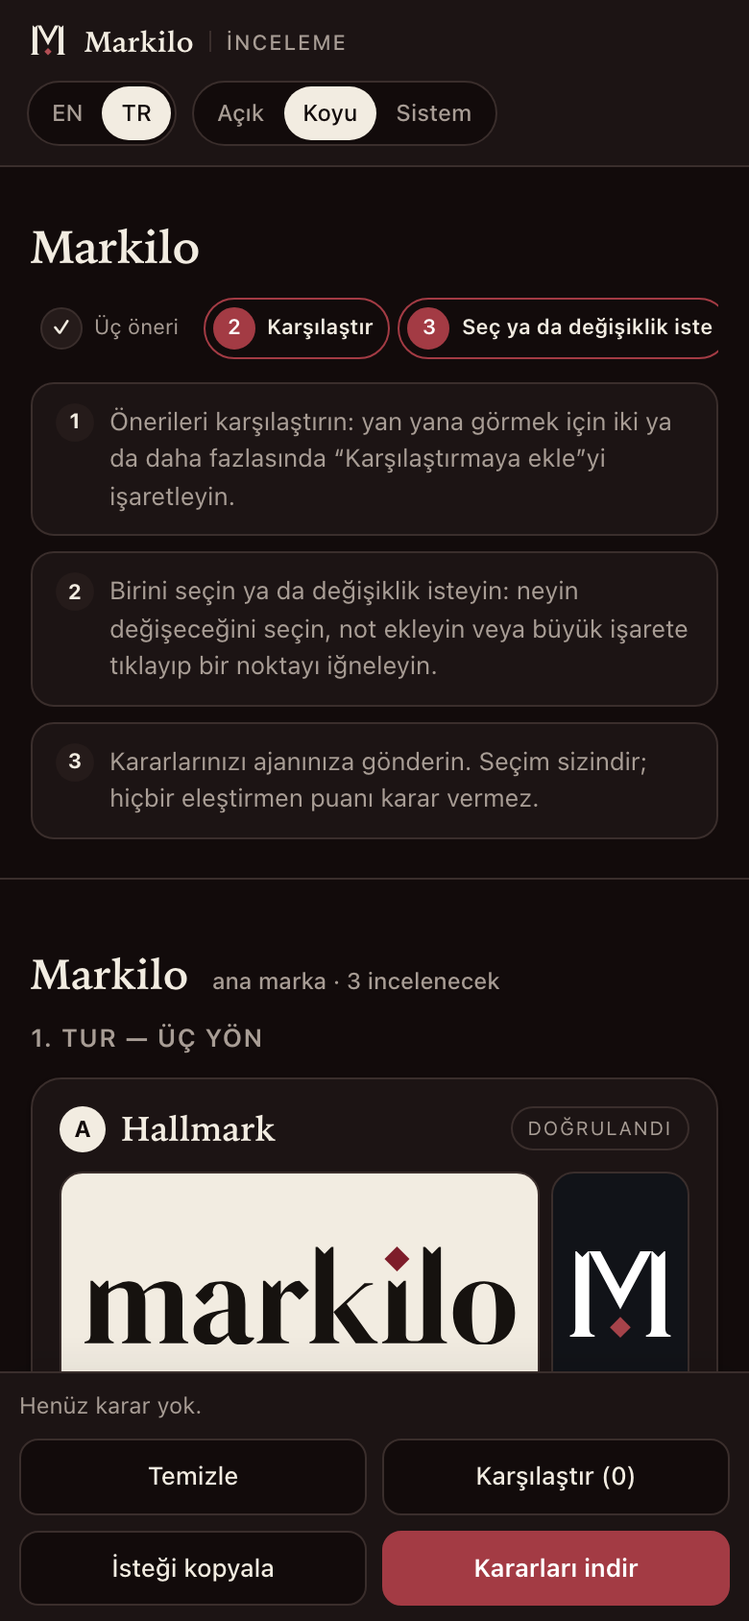
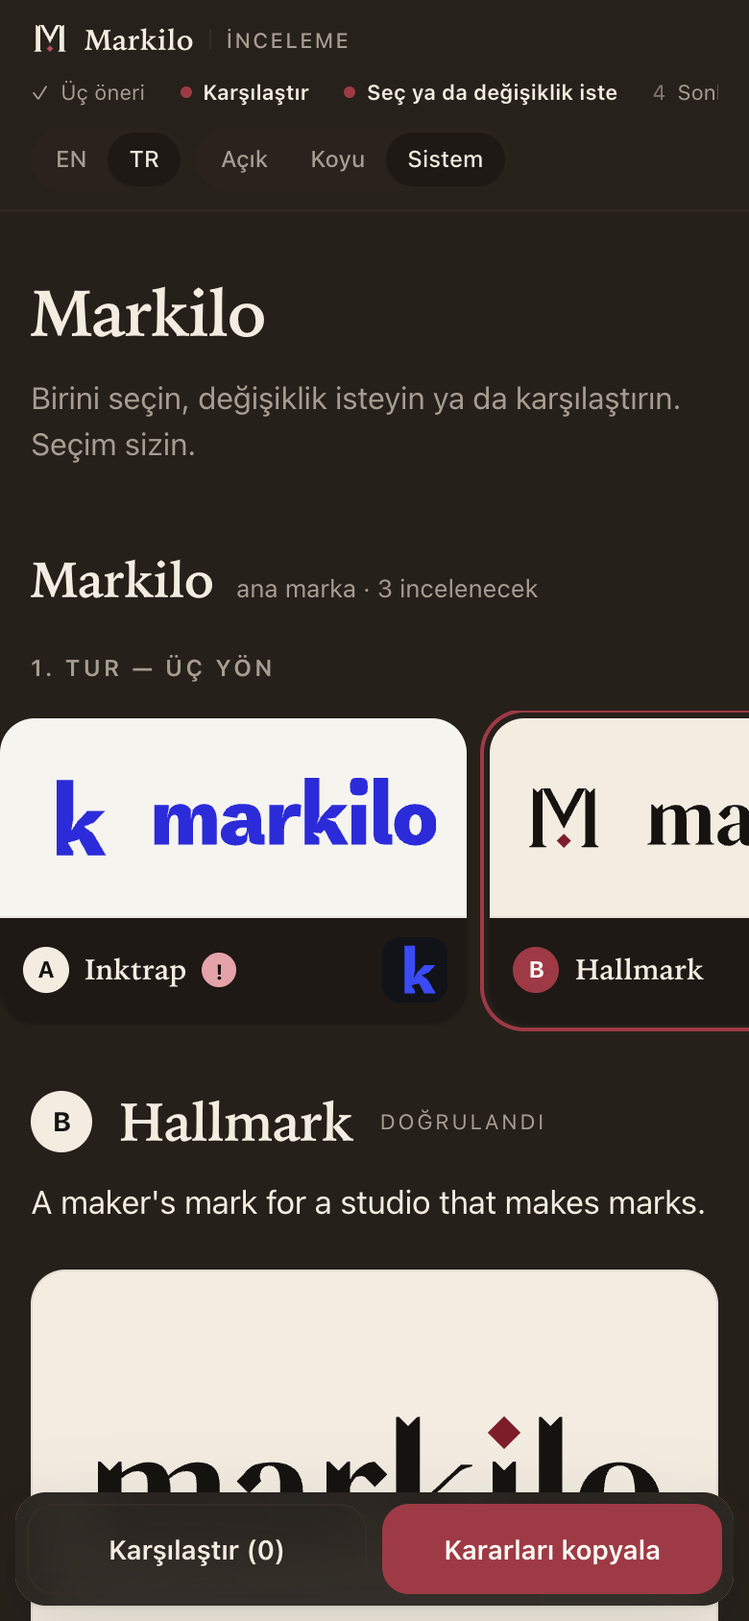
docs(readme): showcase rewrite with the new gallery
New screenshots from Markilo's own round (board, request changes,
compare, details, phone in Turkish and dark, kit preview) and a shorter
README: hero, how it works in three steps, made with Markilo, the kit,
install, cost and limits. Markilo's kit re-exported with the 1.7 pages;
logo files are byte-identical.

diff --git a/branding/brands/markilo/exports/guidelines/index.html b/branding/brands/markilo/exports/guidelines/index.html
@@ -1,8 +1,8 @@
 <!doctype html>
 <html lang="en"><head><meta charset="utf-8"><meta name="viewport" content="width=device-width,initial-scale=1">
-<meta http-equiv="Content-Security-Policy" content="default-src 'none'; script-src 'sha256-qmX8IEYL+Yur/5gXJBwMM0FxtE3NYEm0J3ZTJCE9wpQ='; style-src 'unsafe-inline'; img-src 'self' data:; base-uri 'none'; form-action 'none'">
+<meta http-equiv="Content-Security-Policy" content="default-src 'none'; script-src 'sha256-o6zmhVLJBiXaw1GYFxcKQlTiiojzHJ1zgtfFSQjLI1Q='; style-src 'unsafe-inline'; img-src 'self' data:; base-uri 'none'; form-action 'none'">
 <title>Markilo — brand guidelines</title>
-<script>(()=>{const D={"Language":"Dil","Theme":"Tema","Light":"Açık","Dark":"Koyu","System":"Sistem","Compare":"Karşılaştır","Made with Markilo — works offline; nothing on this page is loaded from the internet.":"Markilo ile yapıldı — çevrimdışı çalışır; bu sayfada internetten hiçbir şey yüklenmez.","Brand guidelines":"Marka kılavuzu","Clear":"Temizle","change":"değiştir","family":"ailesi","verified":"doğrulandı","approved":"onaylandı","locked":"kilitli","low":"düşük","Originality":"Özgünlük","Keep":"Tut","Primary":"Birincil","Symbol":"Simge","originality":"özgünlük","Primary logo":"Birincil logo","On dark backgrounds":"Koyu zeminlerde","color":"renkli","white":"beyaz","primary":"birincil","accent":"vurgu","ink":"mürekkep","dark":"koyu","Secondary":"İkincil","Ink":"Mürekkep","Paper":"Kâğıt","{0}:1 on white · {1}:1 on dark":"beyazda {0}:1 · koyuda {1}:1","concept":"konsept","generated {0}":"{0} tarihinde üretildi","Logo":"Logo","Secondary logo":"İkincil logo","Clear space & minimum size":"Boşluk alanı ve en küçük boyut","Keep clear space equal to the wordmark cap height on every side. Minimum: symbol 16 px / 5 mm, horizontal logo 96 px / 25 mm.":"Her yanda logotipin büyük harf yüksekliği kadar boşluk bırakın. En küçük boyut: simge 16 px / 5 mm, yatay logo 96 px / 25 mm.","Color":"Renk","Typography":"Tipografi","Originality check":"Özgünlük denetimi","Approved with originality verdict {0} (confidence {1}), with the remaining risk explicitly accepted.":"{0} özgünlük kararıyla onaylandı (güven: {1}); kalan risk açıkça kabul edildi.","Compared against: {0}.":"Karşılaştırılanlar: {0}.","No trademark registry search was done (WIPO Global Brand Database, TMview, national registers). Search them, or have a trademark attorney do it, before registering or launching widely.":"Marka tescil araması yapılmadı (WIPO Global Brand Database, TMview, ulusal siciller). Tescil ettirmeden ya da geniş çapta yayına almadan önce bunları siz tarayın veya bir marka vekiline taratın.","Do not":"Yapmayın","Do not stretch, squash, skew or rotate the logo.":"Logoyu germeyin, ezmeyin, eğmeyin veya döndürmeyin.","Do not recolor outside the approved palette or apply gradients, shadows, glows or outlines.":"Onaylı paletin dışında renk vermeyin; degrade, gölge, parlama veya kontur uygulamayın.","Do not rebuild the wordmark in another typeface or change its letter spacing.":"Logotipi başka bir yazı karakteriyle yeniden kurmayın veya harf aralığını değiştirmeyin.","Do not rearrange the symbol and wordmark or change their size relationship.":"Simge ile logotipin yerini veya aralarındaki boyut ilişkisini değiştirmeyin.","Do not place the logo on busy images or backgrounds with less than 3:1 contrast.":"Logoyu karmaşık görsellerin veya kontrastı 3:1’den düşük zeminlerin üzerine koymayın.","Do not crop the symbol or place it inside another shape unless it is an approved appmark.":"Onaylı bir uygulama simgesi değilse simgeyi kırpmayın veya başka bir şeklin içine yerleştirmeyin.","Originality not verified: no competitor marks were compared. Run research (with network access) before relying on this mark.":"Özgünlük doğrulanmadı: hiçbir rakip işaretle karşılaştırma yapılmadı. Bu işarete güvenmeden önce araştırmayı (ağ erişimiyle) çalıştırın."},K='markilo-ui',R=document.documentElement;let p={};try{p=JSON.parse(localStorage.getItem(K)||'{}')||{}}catch(e){}
+<script>(()=>{const D={"Language":"Dil","Theme":"Tema","Light":"Açık","Dark":"Koyu","System":"Sistem","Compare":"Karşılaştır","Made with Markilo — works offline; nothing on this page is loaded from the internet.":"Markilo ile yapıldı — çevrimdışı çalışır; bu sayfada internetten hiçbir şey yüklenmez.","Brand guidelines":"Marka kılavuzu","Clear":"Temizle","change":"değiştir","drop":"ele","family":"ailesi","verified":"doğrulandı","approved":"onaylandı","locked":"kilitli","low":"düşük","Originality":"Özgünlük","Keep":"Tut","Primary":"Birincil","Symbol":"Simge","originality":"özgünlük","Primary logo":"Birincil logo","On dark backgrounds":"Koyu zeminlerde","color":"renkli","white":"beyaz","primary":"birincil","accent":"vurgu","ink":"mürekkep","dark":"koyu","Secondary":"İkincil","Ink":"Mürekkep","Paper":"Kâğıt","{0}:1 on white · {1}:1 on dark":"beyazda {0}:1 · koyuda {1}:1","concept":"konsept","generated {0}":"{0} tarihinde üretildi","Logo":"Logo","Secondary logo":"İkincil logo","Clear space & minimum size":"Boşluk alanı ve en küçük boyut","Keep clear space equal to the wordmark cap height on every side. Minimum: symbol 16 px / 5 mm, horizontal logo 96 px / 25 mm.":"Her yanda logotipin büyük harf yüksekliği kadar boşluk bırakın. En küçük boyut: simge 16 px / 5 mm, yatay logo 96 px / 25 mm.","Color":"Renk","Typography":"Tipografi","Originality check":"Özgünlük denetimi","Approved with originality verdict {0} (confidence {1}), with the remaining risk explicitly accepted.":"{0} özgünlük kararıyla onaylandı (güven: {1}); kalan risk açıkça kabul edildi.","Compared against: {0}.":"Karşılaştırılanlar: {0}.","No trademark registry search was done (WIPO Global Brand Database, TMview, national registers). Search them, or have a trademark attorney do it, before registering or launching widely.":"Marka tescil araması yapılmadı (WIPO Global Brand Database, TMview, ulusal siciller). Tescil ettirmeden ya da geniş çapta yayına almadan önce bunları siz tarayın veya bir marka vekiline taratın.","Do not":"Yapmayın","Do not stretch, squash, skew or rotate the logo.":"Logoyu germeyin, ezmeyin, eğmeyin veya döndürmeyin.","Do not recolor outside the approved palette or apply gradients, shadows, glows or outlines.":"Onaylı paletin dışında renk vermeyin; degrade, gölge, parlama veya kontur uygulamayın.","Do not rebuild the wordmark in another typeface or change its letter spacing.":"Logotipi başka bir yazı karakteriyle yeniden kurmayın veya harf aralığını değiştirmeyin.","Do not rearrange the symbol and wordmark or change their size relationship.":"Simge ile logotipin yerini veya aralarındaki boyut ilişkisini değiştirmeyin.","Do not place the logo on busy images or backgrounds with less than 3:1 contrast.":"Logoyu karmaşık görsellerin veya kontrastı 3:1’den düşük zeminlerin üzerine koymayın.","Do not crop the symbol or place it inside another shape unless it is an approved appmark.":"Onaylı bir uygulama simgesi değilse simgeyi kırpmayın veya başka bir şeklin içine yerleştirmeyin.","Originality not verified: no competitor marks were compared. Run research (with network access) before relying on this mark.":"Özgünlük doğrulanmadı: hiçbir rakip işaretle karşılaştırma yapılmadı. Bu işarete güvenmeden önce araştırmayı (ağ erişimiyle) çalıştırın."},K='markilo-ui',R=document.documentElement;let p={};try{p=JSON.parse(localStorage.getItem(K)||'{}')||{}}catch(e){}
 const nav=String(navigator.language||'').toLowerCase().startsWith('tr')?'tr':'en';
 const S={lang:p.lang==='tr'||p.lang==='en'?p.lang:nav,theme:p.theme==='light'||p.theme==='dark'?p.theme:'system'};
 const fill=(s,v)=>s.replace(/\{(\d)\}/g,(m,i)=>v[i]!==undefined?v[i]:m);
@@ -21,25 +21,26 @@ const ready=()=>{document.querySelectorAll('[data-mk-lang]').forEach(b=>b.onclic
 document.querySelectorAll('[data-mk-theme]').forEach(b=>b.onclick=()=>{S.theme=b.dataset.mkTheme;store();theme();apply()});apply()};
 if(document.readyState==='loading')document.addEventListener('DOMContentLoaded',ready);else ready()})();</script>
 <style>
-:root{--bg:#f2ece1;--card:#fbf8f2;--sunk:#ebe3d6;--ink:#16120f;--muted:#6b625b;--line:#ddd2c4;--accent:#7e1d2a;--accent-ink:#fff;--link:#7e1d2a;--good:#2e6b3d;--warn:#8a5a00;--bad:#b42318;--shadow:0 1px 2px rgba(22,18,15,.06),0 4px 16px rgba(22,18,15,.05);--serif:"Iowan Old Style","Palatino Linotype",Palatino,"Book Antiqua",Georgia,serif;--sans:system-ui,-apple-system,"Segoe UI",Roboto,"Helvetica Neue",sans-serif;color-scheme:light}
-@media (prefers-color-scheme:dark){:root:not([data-theme=light]){--bg:#120b0b;--card:#1c1414;--sunk:#251b1a;--ink:#f2ece1;--muted:#a89d95;--line:#3a2e2c;--accent:#a33b44;--accent-ink:#fff;--link:#e39a9e;--good:#7cc493;--warn:#e0b25c;--bad:#ff8a7a;--shadow:0 1px 2px rgba(0,0,0,.3);color-scheme:dark}}
-:root[data-theme=dark]{--bg:#120b0b;--card:#1c1414;--sunk:#251b1a;--ink:#f2ece1;--muted:#a89d95;--line:#3a2e2c;--accent:#a33b44;--accent-ink:#fff;--link:#e39a9e;--good:#7cc493;--warn:#e0b25c;--bad:#ff8a7a;--shadow:0 1px 2px rgba(0,0,0,.3);color-scheme:dark}
+:root{--bg:#f2ece1;--card:#fbf8f2;--sunk:#e9e2d6;--ink:#16120f;--muted:#6b625b;--line:#ddd5c9;--accent:#7e1d2a;--accent-hover:#651722;--accent-ink:#fbf8f2;--link:#7e1d2a;--problem:#7e1d2a;--shadow:0 1px 2px rgba(22,18,15,.05),0 8px 24px rgba(22,18,15,.06);--serif:"Iowan Old Style","Palatino Linotype",Palatino,"Book Antiqua",Georgia,serif;--sans:system-ui,-apple-system,"Segoe UI",Roboto,"Helvetica Neue",sans-serif;color-scheme:light}
+@media (prefers-color-scheme:dark){:root:not([data-theme=light]){--bg:#16120f;--card:#1e1915;--sunk:#29221d;--ink:#f2ece1;--muted:#a69d92;--line:#352d27;--accent:#9e3a45;--accent-hover:#b34f55;--accent-ink:#fbf8f2;--link:#e3a3a8;--problem:#e3a3a8;--shadow:0 1px 2px rgba(0,0,0,.3);color-scheme:dark}}
+:root[data-theme=dark]{--bg:#16120f;--card:#1e1915;--sunk:#29221d;--ink:#f2ece1;--muted:#a69d92;--line:#352d27;--accent:#9e3a45;--accent-hover:#b34f55;--accent-ink:#fbf8f2;--link:#e3a3a8;--problem:#e3a3a8;--shadow:0 1px 2px rgba(0,0,0,.3);color-scheme:dark}
 *{box-sizing:border-box}body{margin:0;background:var(--bg);color:var(--ink);font:15px/1.5 var(--sans);-webkit-font-smoothing:antialiased}
-a{color:var(--link)}
-.mk-top{display:flex;flex-wrap:wrap;gap:10px 16px;align-items:center;justify-content:space-between;padding:12px 20px;border-bottom:1px solid var(--line);background:var(--card)}
-.mk-brand{display:flex;align-items:center;gap:8px;color:var(--ink);text-decoration:none;font:600 15px/1 var(--serif);letter-spacing:.01em}.mk-brand svg{width:22px;height:22px}.mk-brand .p{fill:#7e1d2a}
+a{color:var(--link);text-underline-offset:2px}a:hover{color:var(--accent-hover)}
+:focus-visible{outline:2px solid var(--accent);outline-offset:2px}
+.mk-top{position:relative;z-index:20;display:flex;flex-wrap:wrap;gap:10px 24px;align-items:center;justify-content:space-between;padding:12px 24px;background:color-mix(in srgb,var(--bg) 86%,transparent);-webkit-backdrop-filter:saturate(1.4) blur(14px);backdrop-filter:saturate(1.4) blur(14px);border-bottom:1px solid color-mix(in srgb,var(--line) 70%,transparent)}
+.mk-brand{display:flex;align-items:center;gap:8px;color:var(--ink);text-decoration:none;font:600 15px/1 var(--serif);letter-spacing:.01em}.mk-brand svg{width:20px;height:20px}.mk-brand .p{fill:#7e1d2a}
 :root[data-theme=dark] .mk-brand .p{fill:#b34f55}@media (prefers-color-scheme:dark){:root:not([data-theme=light]) .mk-brand .p{fill:#b34f55}}
-.mk-brand small{font:500 11px/1 var(--sans);color:var(--muted);text-transform:uppercase;letter-spacing:.08em;border-left:1px solid var(--line);padding-left:8px}
-.mk-prefs{display:flex;gap:8px;visibility:hidden}.mk-js .mk-prefs{visibility:visible}
-.mk-seg{display:inline-flex;border:1px solid var(--line);border-radius:99px;padding:2px;background:var(--bg)}
-.mk-seg button{font:500 12px/1 var(--sans);color:var(--muted);background:transparent;border:0;border-radius:99px;padding:6px 10px;cursor:pointer;min-height:28px}
-.mk-seg button[aria-pressed=true]{background:var(--ink);color:var(--bg)}.mk-seg button:focus-visible{outline:2px solid var(--accent);outline-offset:1px}
-.mk-steps{display:flex;flex-wrap:wrap;gap:4px;list-style:none;margin:0;padding:0;counter-reset:s}
-.mk-steps li{counter-increment:s;display:flex;align-items:center;gap:6px;font-size:12px;color:var(--muted);padding:4px 10px 4px 4px;border-radius:99px;border:1px solid transparent}
-.mk-steps li:before{content:counter(s);display:grid;place-items:center;width:20px;height:20px;border-radius:50%;border:1px solid var(--line);font-size:11px;font-weight:600}
-.mk-steps li.done:before{content:"✓";background:var(--sunk);color:var(--ink)}.mk-steps li.now{color:var(--ink);border-color:var(--accent);font-weight:600}.mk-steps li.now:before{background:var(--accent);border-color:var(--accent);color:var(--accent-ink)}
-.mk-foot{max-width:1280px;margin:0 auto;padding:24px 16px 32px;color:var(--muted);font-size:12px;display:flex;gap:6px;align-items:center}.mk-foot svg{width:14px;height:14px}
-@media (max-width:640px){.mk-top{padding:10px 14px}.mk-steps{flex-wrap:nowrap;overflow-x:auto;scrollbar-width:none}.mk-steps li{font-size:11px;padding-right:8px;white-space:nowrap;flex:none}}
+.mk-brand small{font:500 11px/1 var(--sans);color:var(--muted);text-transform:uppercase;letter-spacing:.1em;border-left:1px solid var(--line);padding-left:8px}
+.mk-prefs{display:flex;gap:6px;visibility:hidden}.mk-js .mk-prefs{visibility:visible}
+.mk-seg{display:inline-flex;border-radius:99px;padding:2px;background:var(--sunk)}
+.mk-seg button{font:500 12px/1 var(--sans);color:var(--muted);background:transparent;border:0;border-radius:99px;padding:6px 11px;cursor:pointer;min-height:28px;transition:color .15s,background .15s}
+.mk-seg button:hover{color:var(--ink)}.mk-seg button[aria-pressed=true]{background:var(--card);color:var(--ink);box-shadow:0 1px 2px rgba(22,18,15,.12)}
+.mk-steps{display:flex;flex-wrap:wrap;gap:2px 18px;list-style:none;margin:0;padding:0;counter-reset:s}
+.mk-steps li{counter-increment:s;display:flex;align-items:center;gap:6px;font-size:12px;color:var(--muted)}
+.mk-steps li:before{content:counter(s);font-variant-numeric:tabular-nums;font-size:11px;opacity:.7}
+.mk-steps li.done:before{content:"✓";opacity:1}.mk-steps li.now{color:var(--ink);font-weight:600}.mk-steps li.now:before{content:"";width:6px;height:6px;border-radius:50%;background:var(--accent);opacity:1}
+.mk-foot{max-width:1200px;margin:0 auto;padding:40px 24px 48px;color:var(--muted);font-size:12px;display:flex;gap:6px;align-items:center}.mk-foot svg{width:14px;height:14px}
+@media (max-width:640px){.mk-top{padding:10px 16px}.mk-steps{flex-wrap:nowrap;overflow-x:auto;scrollbar-width:none}.mk-steps li{font-size:11px;white-space:nowrap;flex:none}}
 @media print{.mk-prefs{display:none}}
 body{font-size:16px;line-height:1.6}main{max-width:1040px;margin:0 auto;padding:40px 20px 24px}
 h1{font:600 46px/1.05 var(--serif);margin:0 0 6px;letter-spacing:-.015em}.meta{color:var(--muted);margin:0}
@@ -47,8 +48,8 @@ h2{font:600 24px/1.2 var(--serif);margin:52px 0 16px;padding-top:22px;border-top
 .grid{display:grid;grid-template-columns:repeat(auto-fill,minmax(300px,1fr));gap:16px}figure{margin:0}figure.sq{max-width:220px}figure svg{display:block;width:100%;height:auto;border-radius:14px;border:1px solid var(--line)}figcaption{font-size:12px;color:var(--muted);margin-top:6px}
 .sw{display:grid;gap:2px;background:var(--card);border:1px solid var(--line);border-radius:14px;padding:8px;box-shadow:var(--shadow)}.chip{height:76px;border-radius:10px;border:1px solid var(--line)}code{font-size:13px}small{color:var(--muted)}
 .swatches{display:grid;grid-template-columns:repeat(auto-fill,minmax(160px,1fr));gap:12px;margin-bottom:16px}.scale{display:flex;align-items:center;gap:4px;margin:6px 0}.scale span{width:90px;font-size:13px;color:var(--muted)}.scale i{flex:1;height:32px;border-radius:4px}
-ul.dont{list-style:none;padding:0;display:grid;gap:8px}ul.dont li{padding:10px 14px 10px 40px;position:relative;background:var(--card);border:1px solid var(--line);border-radius:12px}ul.dont li:before{content:"✕";position:absolute;left:15px;color:var(--bad);font-weight:700}
-.locked{padding:12px 16px;border-radius:12px;background:#fff6db;color:#4a3800;border:1px solid #f0d27a}.band.warn{padding:12px 16px;border-radius:12px;border:1px solid var(--warn);color:var(--warn);font-weight:600}.note{background:var(--card);border:1px solid var(--line);border-left:3px solid var(--accent);border-radius:10px;padding:10px 14px}
+ul.dont{list-style:none;padding:0;display:grid;gap:8px}ul.dont li{padding:10px 14px 10px 40px;position:relative;background:var(--card);border:1px solid var(--line);border-radius:12px}ul.dont li:before{content:"✕";position:absolute;left:15px;color:var(--problem);font-weight:700}
+.locked{padding:12px 16px;border-radius:12px;background:var(--sunk);color:var(--ink)}.band.warn{padding:12px 16px 12px 40px;position:relative;border-radius:12px;background:var(--card);border:1px solid var(--problem);color:var(--problem);font-weight:600}.band.warn:before{content:"!";position:absolute;left:14px;top:11px;width:18px;height:18px;border-radius:50%;background:var(--problem);color:var(--bg);display:grid;place-items:center;font-size:12px;font-weight:700}.note{background:var(--card);border:1px solid var(--line);border-left:3px solid var(--accent);border-radius:10px;padding:10px 14px}
 @media (max-width:600px){h1{font-size:34px}main{padding-top:28px}}
 </style></head><body>
 <header class="mk-top"><span class="mk-brand"><svg viewBox="0 0 1024 1024" aria-hidden="true"><path fill="currentColor" fill-rule="evenodd" d="M253.08 151.99h-9.28l-48.49 48.48-48.48-48.48h-9.28v629.24c0 20.94-1.02 49.09-21.15 61.38-7.36 4.5-15.85 7.04-24.24 8.77v12.38h206.31v-12.38c-8.39-1.73-16.88-4.27-24.24-8.77-20.13-12.29-21.15-40.44-21.15-61.38zM512 463 345.92 151.99h-92.84L512 636.82l258.92-484.83v629.24c0 20.94-1.02 49.09-21.15 61.38-7.36 4.5-15.85 7.04-24.24 8.77v12.38h206.31v-12.38c-8.39-1.73-16.88-4.27-24.24-8.77-20.13-12.29-21.15-40.44-21.15-61.38V151.99h-9.28l-48.48 48.48-48.49-48.48H678.08z"/><path class="p" fill-rule="evenodd" d="m512 698.71 86.65 86.65L512 872.01l-86.65-86.65z"/></svg>Markilo<small><span data-i18n>Brand guidelines</span></small></span><div class="mk-prefs">
@@ -56,7 +57,7 @@ ul.dont{list-style:none;padding:0;display:grid;gap:8px}ul.dont li{padding:10px 1
 <div class="mk-seg" role="group" aria-label="Theme" data-i18n-aria-label="Theme"><button type="button" data-mk-theme="light" aria-pressed="false"><span data-i18n>Light</span></button><button type="button" data-mk-theme="dark" aria-pressed="false"><span data-i18n>Dark</span></button><button type="button" data-mk-theme="system" aria-pressed="true"><span data-i18n>System</span></button></div>
 </div></header>
 <main>
-<h1>Markilo</h1><p class="meta"><span data-i18n>Brand guidelines</span> · <span data-i18n>concept</span> <code>hallmark</code> · <span data-i18n="generated {0}" data-i18n-v="[&quot;2026-11-13&quot;]">generated 2026-11-13</span></p>
+<h1>Markilo</h1><p class="meta"><span data-i18n>Brand guidelines</span> · <span data-i18n>concept</span> <code>hallmark</code> · <span data-i18n="generated {0}" data-i18n-v="[&quot;2026-11-16&quot;]">generated 2026-11-16</span></p>
 
 <h2><span class="n">01</span><span data-i18n>Logo</span></h2><div class="grid"><figure><svg xmlns="http://www.w3.org/2000/svg" width="360" height="160" viewBox="0 0 360 160"><rect width="360" height="160" fill="#F2ECE1"/><g transform="matrix(0.784 0 0 0.784 43.2 110.1822)">
   <g fill="#16120f">

diff --git a/branding/brands/markilo/exports/index.html b/branding/brands/markilo/exports/index.html
@@ -1,8 +1,8 @@
 <!doctype html>
 <html lang="en"><head><meta charset="utf-8"><meta name="viewport" content="width=device-width,initial-scale=1">
-<meta http-equiv="Content-Security-Policy" content="default-src 'none'; script-src 'sha256-tqKmaiRKrrdgnMnkrBnGdCAiUbjywmUGd3SsUivPfwU='; style-src 'unsafe-inline'; img-src 'self' file: data:; base-uri 'none'; form-action 'none'">
+<meta http-equiv="Content-Security-Policy" content="default-src 'none'; script-src 'sha256-jZJCPn46VKzMvpFY/ay6Pyzwg7Ct0pKWcyOuTm8yooQ='; style-src 'unsafe-inline'; img-src 'self' file: data:; base-uri 'none'; form-action 'none'">
 <title>Markilo — brand kit</title>
-<script>(()=>{const D={"Language":"Dil","Theme":"Tema","Light":"Açık","Dark":"Koyu","System":"Sistem","Workflow":"İş akışı","Three proposals":"Üç öneri","Compare":"Karşılaştır","Select or request changes":"Seç ya da değişiklik iste","Finalize":"Sonlandır","Export":"Dışa aktar","Made with Markilo — works offline; nothing on this page is loaded from the internet.":"Markilo ile yapıldı — çevrimdışı çalışır; bu sayfada internetten hiçbir şey yüklenmez.","Asset kit":"Varlık kiti","change":"değiştir","low":"düşük","Select":"Seç","Primary":"Birincil","Symbol":"Simge","Primary logo":"Birincil logo","On dark backgrounds":"Koyu zeminlerde","{0} files · every file below is shown on the background it is made for":"{0} dosya · aşağıdaki her dosya, yapıldığı zeminde gösterilir","{0} files":"{0} dosya","Start here":"Buradan başlayın","Your logo (the wordmark)":"Logonuz (logotip)","Your logo":"Logonuz","Logo on dark backgrounds":"Koyu zeminde logo","The symbol alone":"Yalnız simge","App icon, avatar":"Uygulama simgesi, avatar","Website icons (paste into \u003chead>)":"Web sitesi simgeleri (\u003chead> içine yapıştırın)","Link preview image":"Bağlantı önizleme görseli","Colors as CSS variables":"CSS değişkenleri olarak renkler","How to use it":"Nasıl kullanılır","color":"renkli","reversed":"ters","black":"siyah","white":"beyaz","primary":"birincil","secondary":"ikincil","accent":"vurgu","ink":"mürekkep","paper":"kâğıt","dark":"koyu","Primary — the default":"Birincil — varsayılan","Secondary — stacked, for square-ish spaces":"İkincil — üst üste, kareye yakın alanlar için","Compact — navigation bars and tight spaces":"Kompakt — gezinme çubukları ve dar alanlar","Symbol — the mark alone":"Simge — işaret tek başına","every logo in color, reversed, black and white, as SVG and transparent PNG":"her logo renkli, ters, siyah ve beyaz olarak; SVG ve saydam PNG","favicons, home-screen icons, the web manifest and head-snippet.html to paste into your \u003chead>":"favicon’lar, ana ekran simgeleri, web manifest ve \u003chead> içine yapıştırılacak head-snippet.html","link previews, profile covers and the avatar":"bağlantı önizlemeleri, profil kapakları ve avatar","colors and type as JSON, CSS variables and a Tailwind theme":"JSON, CSS değişkenleri ve bir Tailwind teması olarak renkler ve yazı","how to use the identity (HTML and Markdown)":"kimliğin nasıl kullanılacağı (HTML ve Markdown)","Secondary":"İkincil","Logo":"Logo","Color":"Renk"},K='markilo-ui',R=document.documentElement;let p={};try{p=JSON.parse(localStorage.getItem(K)||'{}')||{}}catch(e){}
+<script>(()=>{const D={"Language":"Dil","Theme":"Tema","Light":"Açık","Dark":"Koyu","System":"Sistem","Workflow":"İş akışı","Three proposals":"Üç öneri","Compare":"Karşılaştır","Select or request changes":"Seç ya da değişiklik iste","Finalize":"Sonlandır","Export":"Dışa aktar","Made with Markilo — works offline; nothing on this page is loaded from the internet.":"Markilo ile yapıldı — çevrimdışı çalışır; bu sayfada internetten hiçbir şey yüklenmez.","Asset kit":"Varlık kiti","change":"değiştir","drop":"ele","low":"düşük","Select":"Seç","Primary":"Birincil","Symbol":"Simge","Primary logo":"Birincil logo","On dark backgrounds":"Koyu zeminlerde","{0} files · every file below is shown on the background it is made for":"{0} dosya · aşağıdaki her dosya, yapıldığı zeminde gösterilir","{0} files":"{0} dosya","Start here":"Buradan başlayın","Your logo (the wordmark)":"Logonuz (logotip)","Your logo":"Logonuz","Logo on dark backgrounds":"Koyu zeminde logo","The symbol alone":"Yalnız simge","App icon, avatar":"Uygulama simgesi, avatar","Website icons (paste into \u003chead>)":"Web sitesi simgeleri (\u003chead> içine yapıştırın)","Link preview image":"Bağlantı önizleme görseli","Colors as CSS variables":"CSS değişkenleri olarak renkler","How to use it":"Nasıl kullanılır","color":"renkli","reversed":"ters","black":"siyah","white":"beyaz","primary":"birincil","secondary":"ikincil","accent":"vurgu","ink":"mürekkep","paper":"kâğıt","dark":"koyu","Primary — the default":"Birincil — varsayılan","Secondary — stacked, for square-ish spaces":"İkincil — üst üste, kareye yakın alanlar için","Compact — navigation bars and tight spaces":"Kompakt — gezinme çubukları ve dar alanlar","Symbol — the mark alone":"Simge — işaret tek başına","every logo in color, reversed, black and white, as SVG and transparent PNG":"her logo renkli, ters, siyah ve beyaz olarak; SVG ve saydam PNG","favicons, home-screen icons, the web manifest and head-snippet.html to paste into your \u003chead>":"favicon’lar, ana ekran simgeleri, web manifest ve \u003chead> içine yapıştırılacak head-snippet.html","link previews, profile covers and the avatar":"bağlantı önizlemeleri, profil kapakları ve avatar","colors and type as JSON, CSS variables and a Tailwind theme":"JSON, CSS değişkenleri ve bir Tailwind teması olarak renkler ve yazı","how to use the identity (HTML and Markdown)":"kimliğin nasıl kullanılacağı (HTML ve Markdown)","Secondary":"İkincil","Logo":"Logo","Color":"Renk"},K='markilo-ui',R=document.documentElement;let p={};try{p=JSON.parse(localStorage.getItem(K)||'{}')||{}}catch(e){}
 const nav=String(navigator.language||'').toLowerCase().startsWith('tr')?'tr':'en';
 const S={lang:p.lang==='tr'||p.lang==='en'?p.lang:nav,theme:p.theme==='light'||p.theme==='dark'?p.theme:'system'};
 const fill=(s,v)=>s.replace(/\{(\d)\}/g,(m,i)=>v[i]!==undefined?v[i]:m);
@@ -21,32 +21,33 @@ const ready=()=>{document.querySelectorAll('[data-mk-lang]').forEach(b=>b.onclic
 document.querySelectorAll('[data-mk-theme]').forEach(b=>b.onclick=()=>{S.theme=b.dataset.mkTheme;store();theme();apply()});apply()};
 if(document.readyState==='loading')document.addEventListener('DOMContentLoaded',ready);else ready()})();</script>
 <style>
-:root{--bg:#f2ece1;--card:#fbf8f2;--sunk:#ebe3d6;--ink:#16120f;--muted:#6b625b;--line:#ddd2c4;--accent:#7e1d2a;--accent-ink:#fff;--link:#7e1d2a;--good:#2e6b3d;--warn:#8a5a00;--bad:#b42318;--shadow:0 1px 2px rgba(22,18,15,.06),0 4px 16px rgba(22,18,15,.05);--serif:"Iowan Old Style","Palatino Linotype",Palatino,"Book Antiqua",Georgia,serif;--sans:system-ui,-apple-system,"Segoe UI",Roboto,"Helvetica Neue",sans-serif;color-scheme:light}
-@media (prefers-color-scheme:dark){:root:not([data-theme=light]){--bg:#120b0b;--card:#1c1414;--sunk:#251b1a;--ink:#f2ece1;--muted:#a89d95;--line:#3a2e2c;--accent:#a33b44;--accent-ink:#fff;--link:#e39a9e;--good:#7cc493;--warn:#e0b25c;--bad:#ff8a7a;--shadow:0 1px 2px rgba(0,0,0,.3);color-scheme:dark}}
-:root[data-theme=dark]{--bg:#120b0b;--card:#1c1414;--sunk:#251b1a;--ink:#f2ece1;--muted:#a89d95;--line:#3a2e2c;--accent:#a33b44;--accent-ink:#fff;--link:#e39a9e;--good:#7cc493;--warn:#e0b25c;--bad:#ff8a7a;--shadow:0 1px 2px rgba(0,0,0,.3);color-scheme:dark}
+:root{--bg:#f2ece1;--card:#fbf8f2;--sunk:#e9e2d6;--ink:#16120f;--muted:#6b625b;--line:#ddd5c9;--accent:#7e1d2a;--accent-hover:#651722;--accent-ink:#fbf8f2;--link:#7e1d2a;--problem:#7e1d2a;--shadow:0 1px 2px rgba(22,18,15,.05),0 8px 24px rgba(22,18,15,.06);--serif:"Iowan Old Style","Palatino Linotype",Palatino,"Book Antiqua",Georgia,serif;--sans:system-ui,-apple-system,"Segoe UI",Roboto,"Helvetica Neue",sans-serif;color-scheme:light}
+@media (prefers-color-scheme:dark){:root:not([data-theme=light]){--bg:#16120f;--card:#1e1915;--sunk:#29221d;--ink:#f2ece1;--muted:#a69d92;--line:#352d27;--accent:#9e3a45;--accent-hover:#b34f55;--accent-ink:#fbf8f2;--link:#e3a3a8;--problem:#e3a3a8;--shadow:0 1px 2px rgba(0,0,0,.3);color-scheme:dark}}
+:root[data-theme=dark]{--bg:#16120f;--card:#1e1915;--sunk:#29221d;--ink:#f2ece1;--muted:#a69d92;--line:#352d27;--accent:#9e3a45;--accent-hover:#b34f55;--accent-ink:#fbf8f2;--link:#e3a3a8;--problem:#e3a3a8;--shadow:0 1px 2px rgba(0,0,0,.3);color-scheme:dark}
 *{box-sizing:border-box}body{margin:0;background:var(--bg);color:var(--ink);font:15px/1.5 var(--sans);-webkit-font-smoothing:antialiased}
-a{color:var(--link)}
-.mk-top{display:flex;flex-wrap:wrap;gap:10px 16px;align-items:center;justify-content:space-between;padding:12px 20px;border-bottom:1px solid var(--line);background:var(--card)}
-.mk-brand{display:flex;align-items:center;gap:8px;color:var(--ink);text-decoration:none;font:600 15px/1 var(--serif);letter-spacing:.01em}.mk-brand svg{width:22px;height:22px}.mk-brand .p{fill:#7e1d2a}
+a{color:var(--link);text-underline-offset:2px}a:hover{color:var(--accent-hover)}
+:focus-visible{outline:2px solid var(--accent);outline-offset:2px}
+.mk-top{position:relative;z-index:20;display:flex;flex-wrap:wrap;gap:10px 24px;align-items:center;justify-content:space-between;padding:12px 24px;background:color-mix(in srgb,var(--bg) 86%,transparent);-webkit-backdrop-filter:saturate(1.4) blur(14px);backdrop-filter:saturate(1.4) blur(14px);border-bottom:1px solid color-mix(in srgb,var(--line) 70%,transparent)}
+.mk-brand{display:flex;align-items:center;gap:8px;color:var(--ink);text-decoration:none;font:600 15px/1 var(--serif);letter-spacing:.01em}.mk-brand svg{width:20px;height:20px}.mk-brand .p{fill:#7e1d2a}
 :root[data-theme=dark] .mk-brand .p{fill:#b34f55}@media (prefers-color-scheme:dark){:root:not([data-theme=light]) .mk-brand .p{fill:#b34f55}}
-.mk-brand small{font:500 11px/1 var(--sans);color:var(--muted);text-transform:uppercase;letter-spacing:.08em;border-left:1px solid var(--line);padding-left:8px}
-.mk-prefs{display:flex;gap:8px;visibility:hidden}.mk-js .mk-prefs{visibility:visible}
-.mk-seg{display:inline-flex;border:1px solid var(--line);border-radius:99px;padding:2px;background:var(--bg)}
-.mk-seg button{font:500 12px/1 var(--sans);color:var(--muted);background:transparent;border:0;border-radius:99px;padding:6px 10px;cursor:pointer;min-height:28px}
-.mk-seg button[aria-pressed=true]{background:var(--ink);color:var(--bg)}.mk-seg button:focus-visible{outline:2px solid var(--accent);outline-offset:1px}
-.mk-steps{display:flex;flex-wrap:wrap;gap:4px;list-style:none;margin:0;padding:0;counter-reset:s}
-.mk-steps li{counter-increment:s;display:flex;align-items:center;gap:6px;font-size:12px;color:var(--muted);padding:4px 10px 4px 4px;border-radius:99px;border:1px solid transparent}
-.mk-steps li:before{content:counter(s);display:grid;place-items:center;width:20px;height:20px;border-radius:50%;border:1px solid var(--line);font-size:11px;font-weight:600}
-.mk-steps li.done:before{content:"✓";background:var(--sunk);color:var(--ink)}.mk-steps li.now{color:var(--ink);border-color:var(--accent);font-weight:600}.mk-steps li.now:before{background:var(--accent);border-color:var(--accent);color:var(--accent-ink)}
-.mk-foot{max-width:1280px;margin:0 auto;padding:24px 16px 32px;color:var(--muted);font-size:12px;display:flex;gap:6px;align-items:center}.mk-foot svg{width:14px;height:14px}
-@media (max-width:640px){.mk-top{padding:10px 14px}.mk-steps{flex-wrap:nowrap;overflow-x:auto;scrollbar-width:none}.mk-steps li{font-size:11px;padding-right:8px;white-space:nowrap;flex:none}}
+.mk-brand small{font:500 11px/1 var(--sans);color:var(--muted);text-transform:uppercase;letter-spacing:.1em;border-left:1px solid var(--line);padding-left:8px}
+.mk-prefs{display:flex;gap:6px;visibility:hidden}.mk-js .mk-prefs{visibility:visible}
+.mk-seg{display:inline-flex;border-radius:99px;padding:2px;background:var(--sunk)}
+.mk-seg button{font:500 12px/1 var(--sans);color:var(--muted);background:transparent;border:0;border-radius:99px;padding:6px 11px;cursor:pointer;min-height:28px;transition:color .15s,background .15s}
+.mk-seg button:hover{color:var(--ink)}.mk-seg button[aria-pressed=true]{background:var(--card);color:var(--ink);box-shadow:0 1px 2px rgba(22,18,15,.12)}
+.mk-steps{display:flex;flex-wrap:wrap;gap:2px 18px;list-style:none;margin:0;padding:0;counter-reset:s}
+.mk-steps li{counter-increment:s;display:flex;align-items:center;gap:6px;font-size:12px;color:var(--muted)}
+.mk-steps li:before{content:counter(s);font-variant-numeric:tabular-nums;font-size:11px;opacity:.7}
+.mk-steps li.done:before{content:"✓";opacity:1}.mk-steps li.now{color:var(--ink);font-weight:600}.mk-steps li.now:before{content:"";width:6px;height:6px;border-radius:50%;background:var(--accent);opacity:1}
+.mk-foot{max-width:1200px;margin:0 auto;padding:40px 24px 48px;color:var(--muted);font-size:12px;display:flex;gap:6px;align-items:center}.mk-foot svg{width:14px;height:14px}
+@media (max-width:640px){.mk-top{padding:10px 16px}.mk-steps{flex-wrap:nowrap;overflow-x:auto;scrollbar-width:none}.mk-steps li{font-size:11px;white-space:nowrap;flex:none}}
 @media print{.mk-prefs{display:none}}
-:root{--check:#e6ded1}:root[data-theme=dark]{--check:#2a201f}@media (prefers-color-scheme:dark){:root:not([data-theme=light]){--check:#2a201f}}
+:root{--check:var(--sunk)}
 main{max-width:1180px;margin:0 auto;padding:28px 16px 32px}h1{margin:0;font:600 34px/1.1 var(--serif);letter-spacing:-.01em}h2{margin:44px 0 12px;font:600 22px/1.2 var(--serif)}h2 small{font:400 13px/1.4 var(--sans);color:var(--muted)}
 .sub{color:var(--muted);margin:6px 0 16px}.intro{display:grid;gap:14px;margin-bottom:20px}
 nav{display:flex;flex-wrap:wrap;gap:6px;margin:24px 0 0;position:sticky;top:0;background:var(--bg);padding:10px 0;z-index:2;border-bottom:1px solid var(--line)}nav a{padding:5px 12px;border:1px solid var(--line);border-radius:99px;text-decoration:none;background:var(--card);color:var(--ink);font-size:13px}
 .hero{display:grid;grid-template-columns:repeat(auto-fit,minmax(280px,1fr));gap:12px}.hero figure{margin:0;border-radius:16px;border:1px solid var(--line);aspect-ratio:2/1;overflow:hidden;position:relative}.hero img{display:block;width:100%;height:100%;object-fit:contain;padding:18% 15%}
-.hero figcaption{position:absolute;left:12px;bottom:10px;font-size:10px;letter-spacing:.06em;text-transform:uppercase;background:rgba(255,255,255,.86);color:#16120f;border-radius:99px;padding:3px 8px}
+.hero figcaption{position:absolute;left:12px;bottom:10px;font-size:10px;letter-spacing:.06em;text-transform:uppercase;background:rgba(242,236,225,.9);color:#16120f;border-radius:99px;padding:3px 8px}
 .chips{display:flex;flex-wrap:wrap;gap:8px 14px;margin:16px 0}.chip{display:flex;align-items:center;gap:6px;font-size:13px}.chip i{width:20px;height:20px;border-radius:6px;border:1px solid var(--line)}
 table{border-collapse:collapse;width:100%;background:var(--card);border:1px solid var(--line);border-radius:12px;overflow:hidden}td{padding:8px 12px;border-top:1px solid var(--line);vertical-align:top}tr:first-child td{border-top:0}td:first-child{width:38%}
 .matrix{display:grid;grid-template-columns:minmax(120px,170px) repeat(var(--cols),minmax(0,1fr));gap:10px;align-items:center;overflow-x:auto}.vh{font-size:11px;color:var(--muted);text-transform:uppercase;letter-spacing:.06em}.rh{margin:0;font-size:13px}

diff --git a/README.md b/README.md
@@ -1,15 +1,14 @@
 <p align="center">
   <picture>
-    <source media="(prefers-color-scheme: dark)" srcset="https://raw.githubusercontent.com/cihantopac/markilo/markilo--v1.1.2/assets/logo-dark.svg">
-    <img src="https://raw.githubusercontent.com/cihantopac/markilo/markilo--v1.1.2/assets/logo-light.svg" alt="Markilo" width="340">
+    <source media="(prefers-color-scheme: dark)" srcset="https://raw.githubusercontent.com/cihantopac/markilo/markilo--v1.7.0/assets/logo-dark.svg">
+    <img src="https://raw.githubusercontent.com/cihantopac/markilo/markilo--v1.7.0/assets/logo-light.svg" alt="Markilo" width="320">
   </picture>
 </p>
 
 <h3 align="center">A brand identity studio inside Claude Code.</h3>
 
 <p align="center">
-  Three original identities for your product, drawn as real SVG and checked for originality.<br>
-  You compare them, choose or ask for changes — and get every file the product needs.
+  Three original identities, drawn as real SVG. You choose. You get every file.
 </p>
 
 <p align="center">
@@ -19,26 +18,40 @@
 </p>
 
 <p align="center">
-  <img src="https://raw.githubusercontent.com/cihantopac/markilo/markilo--v1.1.2/assets/screens/gallery.png" alt="The Markilo Gallery showing three proposals, A Hallmark, B Inktrap and C Seal, side by side" width="100%">
+  <img src="https://raw.githubusercontent.com/cihantopac/markilo/markilo--v1.7.0/assets/screens/gallery.png" alt="The Markilo review: a board of three proposals — Inktrap, Hallmark and Seal — and Hallmark shown large, selected" width="100%">
 </p>
-<p align="center"><sub>The Gallery with Markilo's own round of three proposals (from <a href="https://github.com/cihantopac/markilo/tree/main/branding">branding/</a>; the chosen one, A, already shows its finished icon).</sub></p>
+<p align="center"><sub>Markilo's own first round. The one on the board's oxblood ring became Markilo's identity.</sub></p>
 
-## Three proposals → Compare → Select or request changes → Finalize → Export
+## How it works
 
-Markilo reads your product, writes a short brief and draws **three genuinely different identities**. In the Gallery you
-see each one on light and dark, as an app icon and at 16 px, with its idea, its strengths and its honest weaknesses.
-Nothing is finalized without your choice.
+**1 · Three proposals.** Markilo reads your product, writes a short brief and draws three genuinely different
+identities — a word, an icon, a lockup — and checks each for craft and originality.
+
+**2 · You choose.** The review shows one proposal at a time, large, on light and dark and at 16 px. Select one, ask for
+changes in your own words, or compare two side by side. Nothing is finalized without your choice.
+
+**3 · The kit.** Logos, app and web icons, social images, tokens and guidelines — exported, measured and checked.
 
 <table>
   <tr>
-    <td width="34%" valign="top"><img src="https://raw.githubusercontent.com/cihantopac/markilo/markilo--v1.1.2/assets/screens/gallery-request.png" alt="A proposal with Request changes chosen: chips for simpler and better at small sizes, a note, and a pin on the mark"></td>
-    <td valign="top"><img src="https://raw.githubusercontent.com/cihantopac/markilo/markilo--v1.1.2/assets/screens/gallery-compare.png" alt="Two proposals compared side by side, each with a Prefer this button"></td>
+    <td width="50%" valign="top"><img src="https://raw.githubusercontent.com/cihantopac/markilo/markilo--v1.7.0/assets/screens/gallery-request.png" alt="Request changes on proposal C: two chips chosen and a pin on the mark with a note"></td>
+    <td width="50%" valign="top"><img src="https://raw.githubusercontent.com/cihantopac/markilo/markilo--v1.7.0/assets/screens/gallery-compare.png" alt="Two proposals side by side, each with a Prefer this button"></td>
   </tr>
   <tr>
-    <td><sub><b>Request changes</b> in your words: pick what to change, add a note, or pin a spot on the mark.</sub></td>
-    <td><sub><b>Compare</b> any two side by side and say which you prefer and why. Your decisions go straight back to Claude.</sub></td>
+    <td><sub><b>Ask for changes.</b> Pick what to change, add a note, or pin a spot on the mark.</sub></td>
+    <td><sub><b>Compare.</b> Two or three side by side; say which you prefer and why.</sub></td>
+  </tr>
+  <tr>
+    <td valign="top"><img src="https://raw.githubusercontent.com/cihantopac/markilo/markilo--v1.7.0/assets/screens/gallery-detail.png" alt="The Details of a proposal opened: the idea with strengths and weaknesses, rationale and palette, technical checks and originality"></td>
+    <td valign="top" align="center"><img src="https://raw.githubusercontent.com/cihantopac/markilo/markilo--v1.7.0/assets/screens/gallery-mobile-tr-dark.png" alt="The review on a phone, in Turkish and dark theme" width="58%"></td>
+  </tr>
+  <tr>
+    <td><sub><b>Details on demand.</b> Strengths, honest weaknesses, checks and originality — one click away.</sub></td>
+    <td><sub><b>Anywhere.</b> English or Turkish, light or dark, desktop or phone. Offline, one file.</sub></td>
   </tr>
 </table>
+
+Your decisions go back to Claude with one click: **Copy decisions** and paste them into the chat.
 
 ## Made with Markilo
 
@@ -47,9 +60,9 @@ unedited.
 
 <table>
   <tr>
-    <td width="33%"><a href="https://github.com/cihantopac/relivaro"><img src="https://raw.githubusercontent.com/cihantopac/markilo/markilo--v1.1.2/assets/made-with/relivaro-og.png" alt="Relivaro identity: a cairn of stones and the word Relivaro"></a></td>
-    <td width="33%"><a href="https://github.com/cihantopac/searvex"><img src="https://raw.githubusercontent.com/cihantopac/markilo/markilo--v1.1.2/assets/made-with/searvex-og.png" alt="Searvex identity: a broad-nib V and the word searvex"></a></td>
-    <td width="33%"><a href="https://github.com/cihantopac/jourilo"><img src="https://raw.githubusercontent.com/cihantopac/markilo/markilo--v1.1.2/assets/made-with/jourilo-og.png" alt="Jourilo identity: a book serif with a hanging J"></a></td>
+    <td width="33%"><a href="https://github.com/cihantopac/relivaro"><img src="https://raw.githubusercontent.com/cihantopac/markilo/markilo--v1.7.0/assets/made-with/relivaro-og.png" alt="Relivaro identity: a cairn of stones and the word Relivaro"></a></td>
+    <td width="33%"><a href="https://github.com/cihantopac/searvex"><img src="https://raw.githubusercontent.com/cihantopac/markilo/markilo--v1.7.0/assets/made-with/searvex-og.png" alt="Searvex identity: a broad-nib V and the word searvex"></a></td>
+    <td width="33%"><a href="https://github.com/cihantopac/jourilo"><img src="https://raw.githubusercontent.com/cihantopac/markilo/markilo--v1.7.0/assets/made-with/jourilo-og.png" alt="Jourilo identity: a book serif with a hanging J"></a></td>
   </tr>
   <tr>
     <td><sub><b>Relivaro</b> — release engineering. ≈ $15, seven runs while the 1.1 process was being corrected.</sub></td>
@@ -60,25 +73,18 @@ unedited.
 
 Markilo's own identity came out of the same process: $13.68 for one round and three icon options.
 
-## The kit you get
+## The kit
 
 <p align="center">
-  <img src="https://raw.githubusercontent.com/cihantopac/markilo/markilo--v1.1.2/assets/kit-overview.png" alt="Every Markilo logo file: primary, secondary, compact, symbol and wordmark in color, reversed, black and white" width="100%">
+  <img src="https://raw.githubusercontent.com/cihantopac/markilo/markilo--v1.7.0/assets/kit-overview.png" alt="Every Markilo logo file: primary, secondary, compact, symbol and wordmark in color, reversed, black and white" width="100%">
 </p>
 
 Logos in color, reversed, black and white (SVG + PNG) · favicons, PWA and maskable icons · iOS, macOS, Android and
 Windows app icons · Open Graph and social images · design tokens · brand guidelines · a manifest with sizes and
-checksums. Each kit opens with a preview page that shows every file on the background it is made for:
+checksums. Every kit opens with a page that shows each file on the background it is made for.
 
 <p align="center">
-  <img src="https://raw.githubusercontent.com/cihantopac/markilo/markilo--v1.1.2/assets/screens/kit-preview.png" alt="The asset kit preview page for Markilo: the primary logo on paper and on dark, the palette and a Start here table" width="100%">
-</p>
-
-The Gallery, the kit preview and the guidelines work offline from a single file, in **English or Turkish**, in
-**light, dark or system** theme — on a phone too.
-
-<p align="center">
-  <img src="https://raw.githubusercontent.com/cihantopac/markilo/markilo--v1.1.2/assets/screens/gallery-mobile-tr-dark.png" alt="The Gallery on a phone, in Turkish and dark theme" width="300">
+  <img src="https://raw.githubusercontent.com/cihantopac/markilo/markilo--v1.7.0/assets/screens/kit-preview.png" alt="The kit preview for Markilo: the primary logo on paper and on dark, the palette and a Start here table" width="100%">
 </p>
 
 ## Install
@@ -92,27 +98,25 @@ In Claude Code:
 
 Then: `/markilo <your repo, URL or product name>`.
 
-Without Claude Code — for other coding agents and scripts — the same toolchain is on npm (Node.js ≥ 20.10, macOS,
-Linux and Windows):
+For other coding agents and scripts, the same toolchain is on npm (Node.js ≥ 20.10; macOS, Linux and Windows):
 
 ```bash
 npm install -g markilo
 ```
 
-## What it costs, and what it has shown
+## Cost and limits
 
-- **The toolchain is free.** It runs locally — rendering, measuring, originality checks, export — with no account,
-  server or paid service.
-- **The design work is done by the AI model and uses your Claude Code usage.** In validation, one round of three
-  proposals cost $5–10 and a finished identity $5–15 (API-equivalent, measured by Claude Code; on a subscription it
-  counts against your plan instead). `markilo cost` tracks it against a budget you set (default $12) and stops paid
-  work when it is reached. Totals are a lower bound until the main session's share is recorded with `--session-usd`.
-- **Steered, it works; unattended, it does not yet.** With their owner choosing, all three real products above reached
-  an identity the owner approved — three products and one owner's judgment, not a benchmark. Unattended, 1.0 produced
-  no identity a blind judge panel would present. The full record, with every run and image:
+- **The toolchain is free.** Rendering, measuring, originality checks and export run locally — no account, server
+  or paid service.
+- **The design work uses your Claude Code usage.** In validation a round of three proposals cost $5–10 and a finished
+  identity $5–15 (API-equivalent; on a subscription it counts against your plan). `markilo cost` tracks it against a
+  budget you set (default $12) and stops paid work when it is reached.
+- **Steered, it works; unattended, not yet.** With their owner choosing, all three products above reached an identity
+  the owner approved — three products and one owner's judgment, not a benchmark. Unattended, 1.0 produced no identity
+  a blind judge panel would present. The full record:
   [benchmarks](https://github.com/cihantopac/markilo/blob/main/docs/BENCHMARKS.md) ·
   [1.1 validation log](https://github.com/cihantopac/markilo/blob/main/docs/RELEASE-1.1.md).
-- **Not legal advice.** The originality checks compare against the marks Markilo collected; they cannot prove a mark is
+- **Not legal advice.** Originality checks compare against the marks Markilo collected; they cannot prove a mark is
   unique or registrable. No trademark registry search is done for you.
 
 ## Learn more

diff --git a/branding/brands/markilo/exports/guidelines/brand-guidelines.md b/branding/brands/markilo/exports/guidelines/brand-guidelines.md
@@ -64,4 +64,4 @@ No trademark registry search was done (WIPO Global Brand Database, TMview, natio
 
 ---
 
-Generated by Markilo on 2026-11-13 from concept `hallmark`.
+Generated by Markilo on 2026-11-16 from concept `hallmark`.
